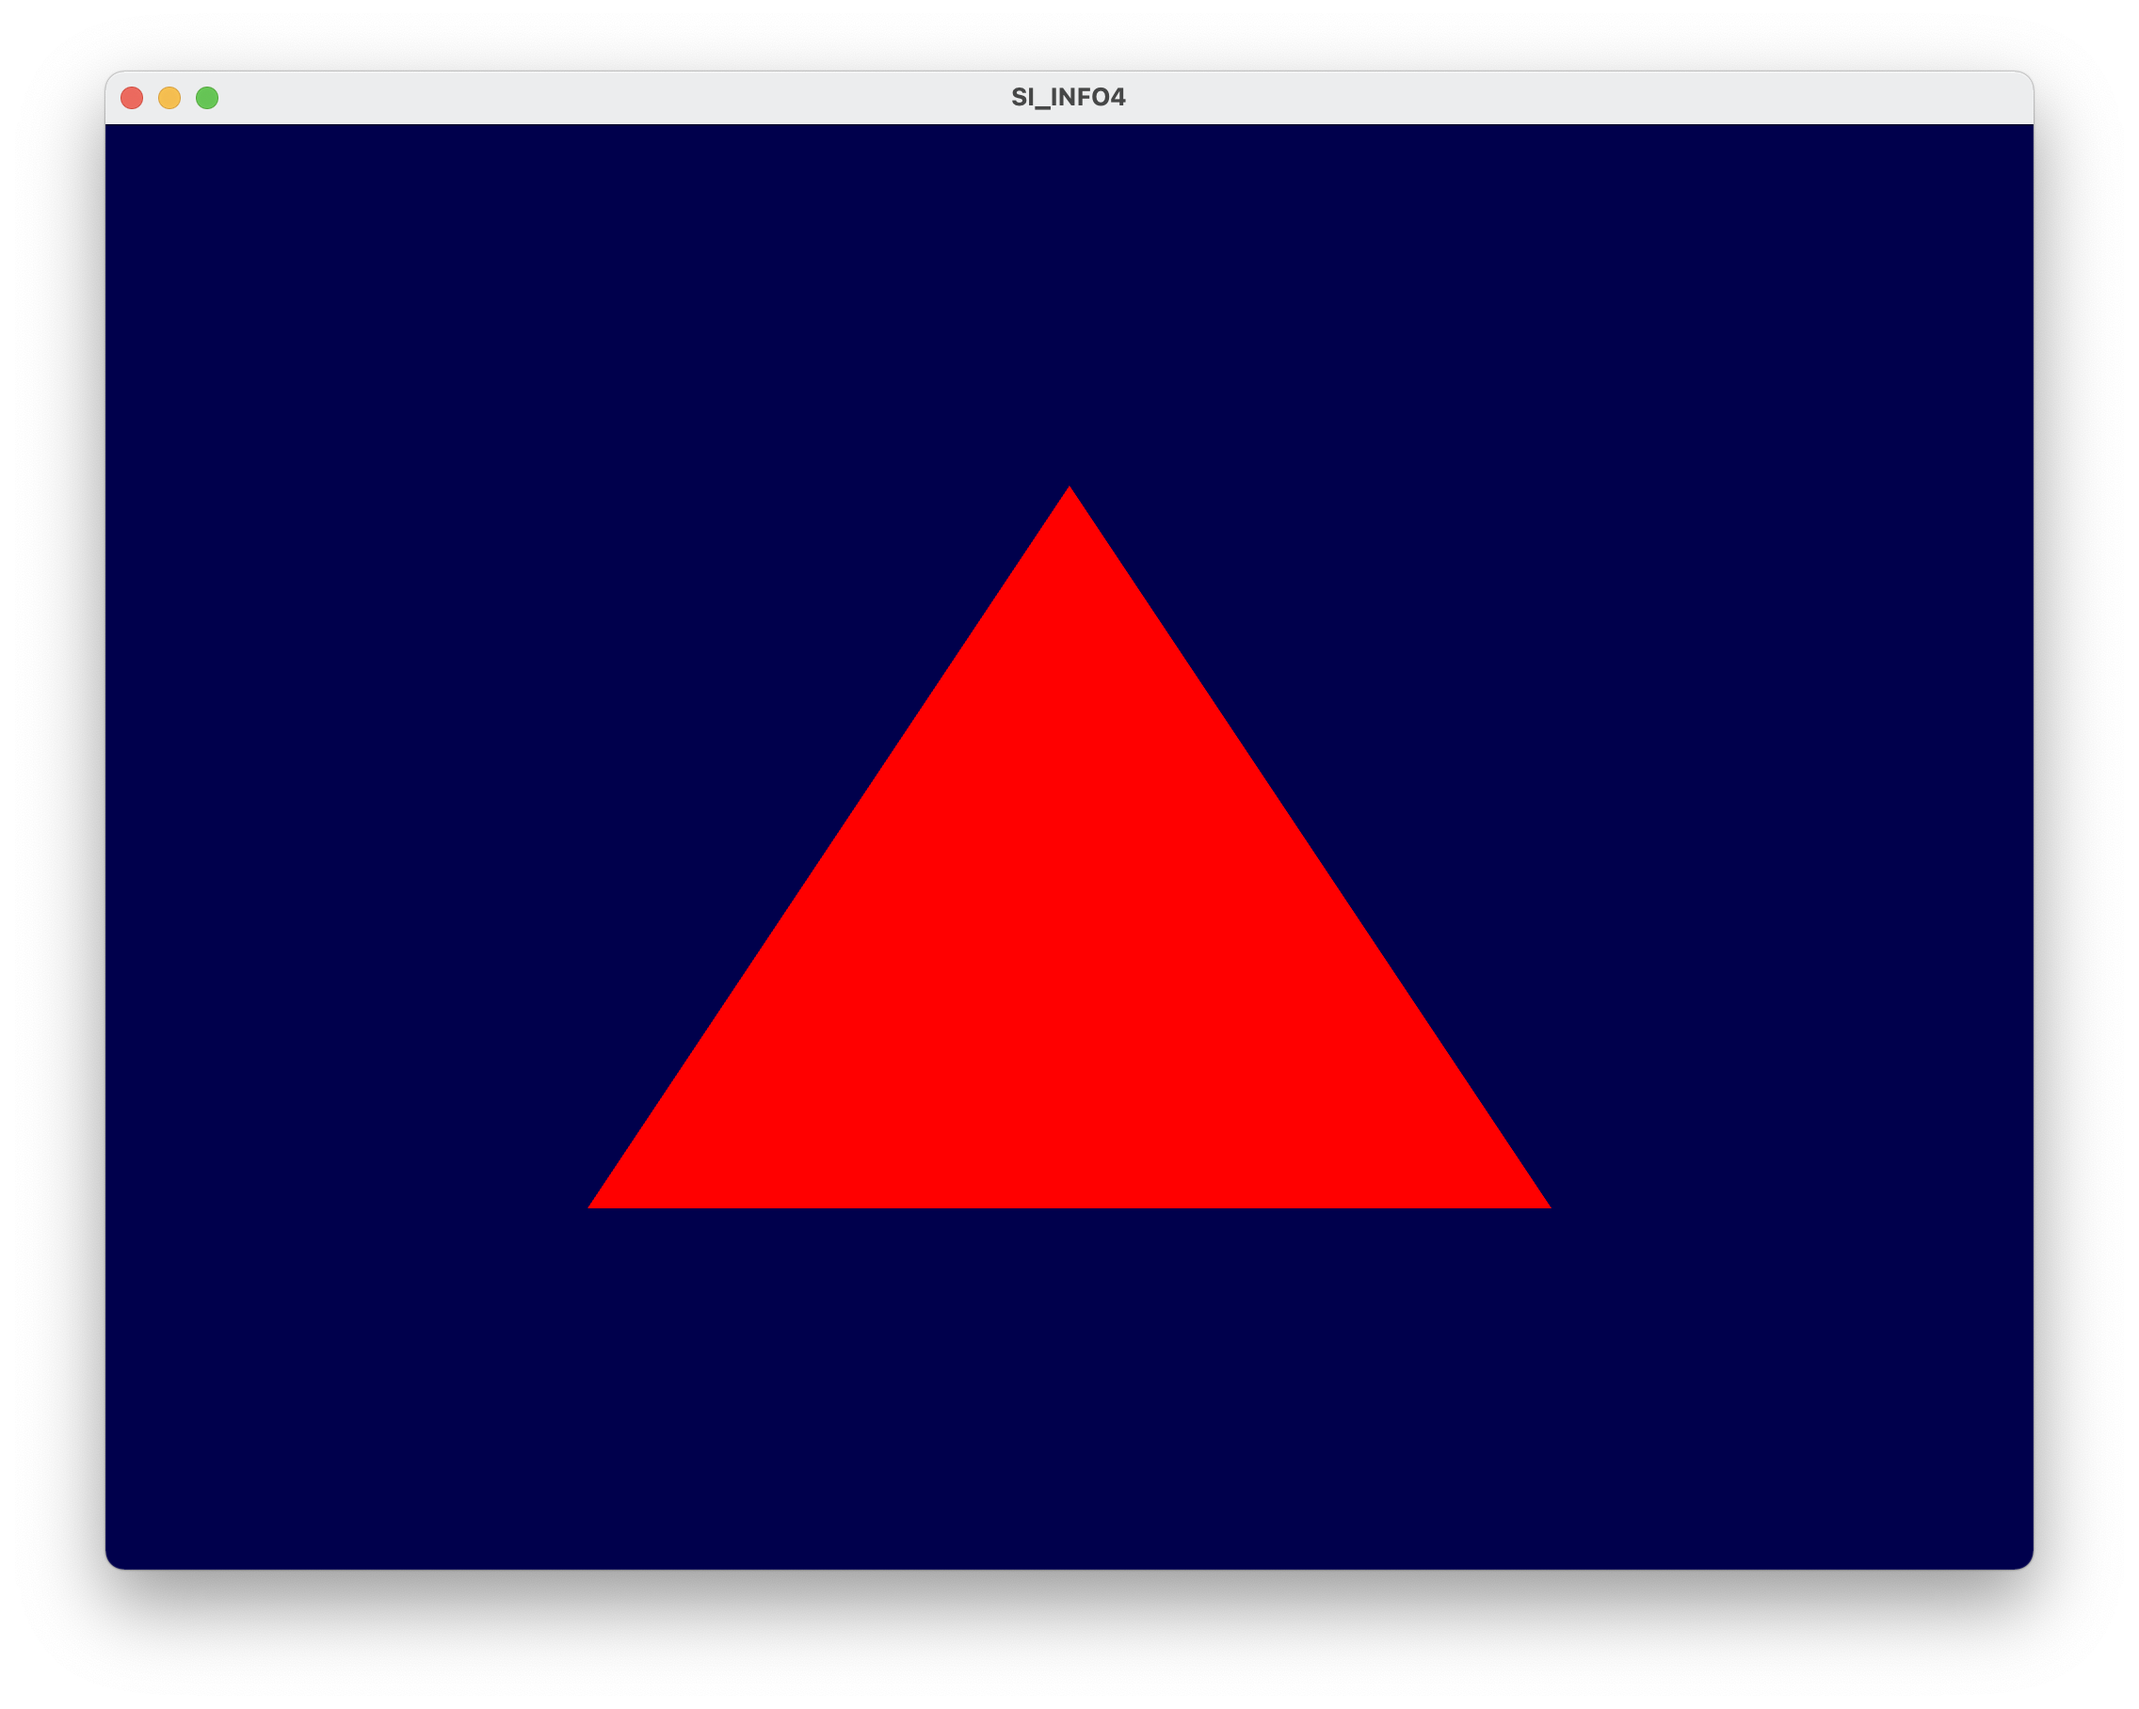
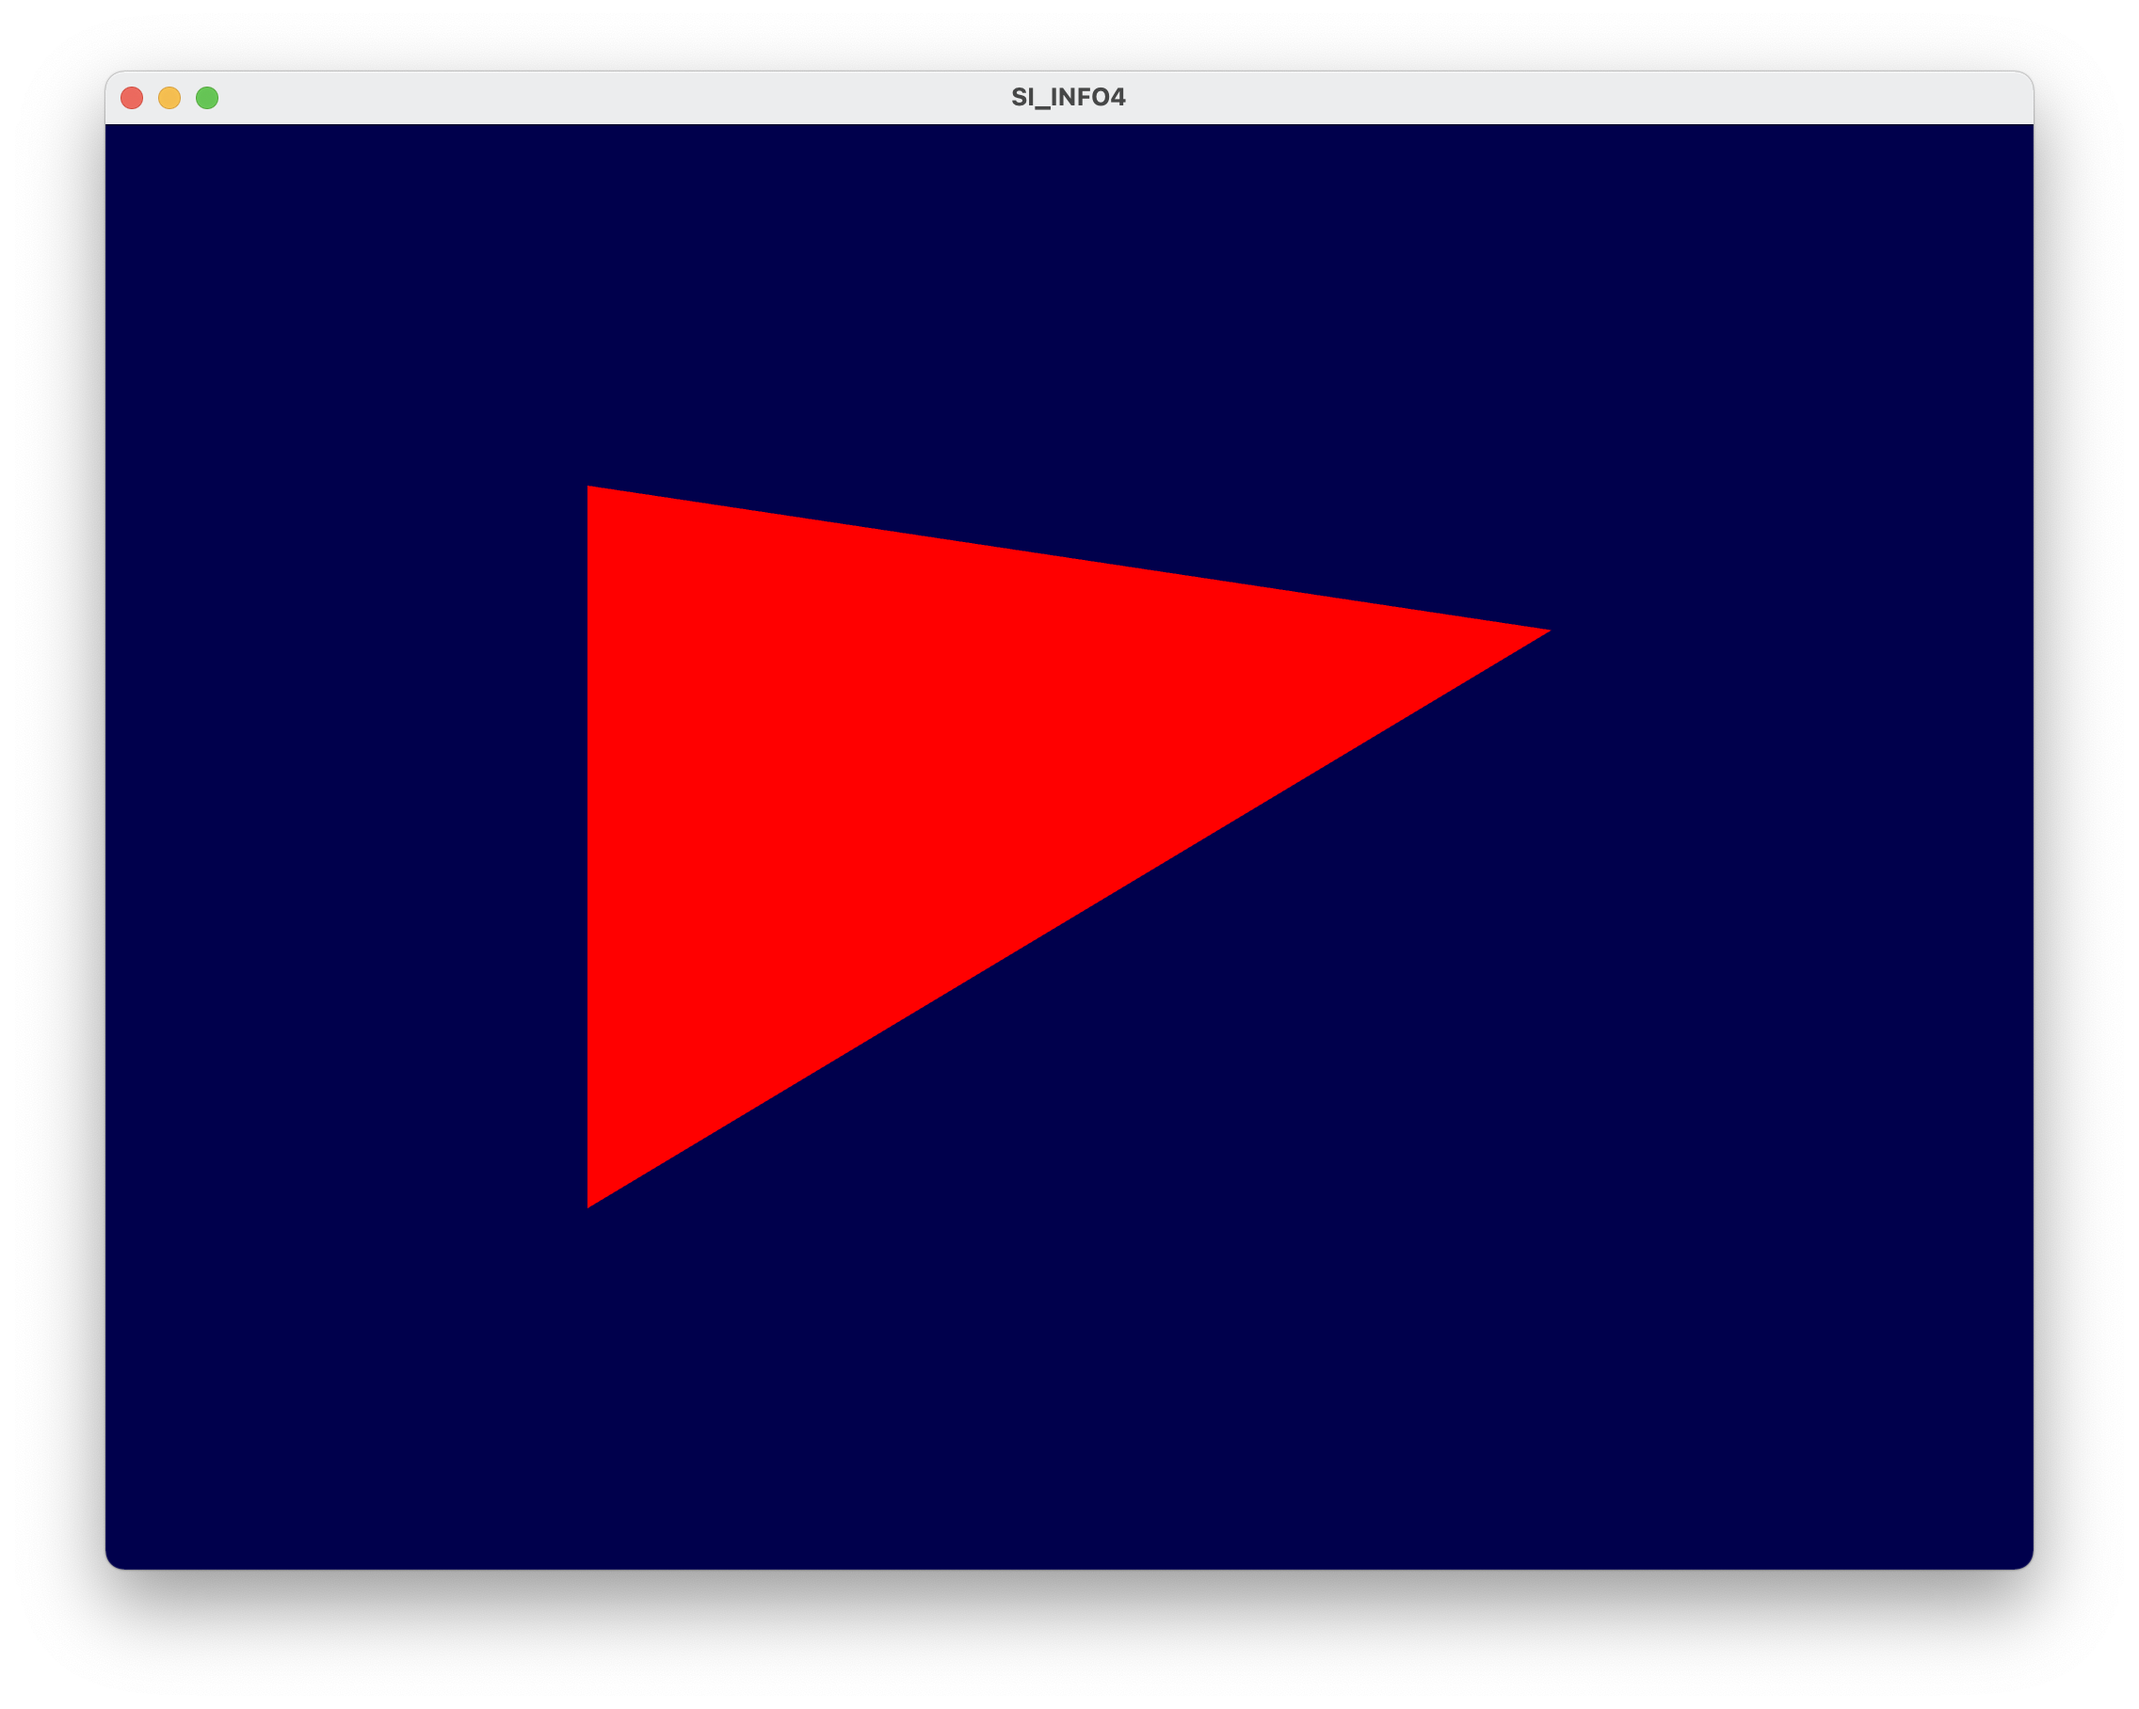
TP1: Change shape of triangle

Changed region(s): [[0.25, 0.2775, 0.7188, 0.7093]]

diff --git a/TP1/src/main.cpp b/TP1/src/main.cpp
@@ -85,9 +85,9 @@ int main()
 
     glColor3f(0, 125, 0);
     glBegin(GL_TRIANGLES);
+    glVertex3f(-0.5f, 0.5f, 0.0f);
+    glVertex3f(0.5f, 0.3f, 0.0f);
     glVertex3f(-0.5f, -0.5f, 0.0f);
-    glVertex3f(0.5f, -0.5f, 0.0f);
-    glVertex3f(0.0f, 0.5f, 0.0f);
     glEnd();
 
     // Echange des zones de dessin buffers
